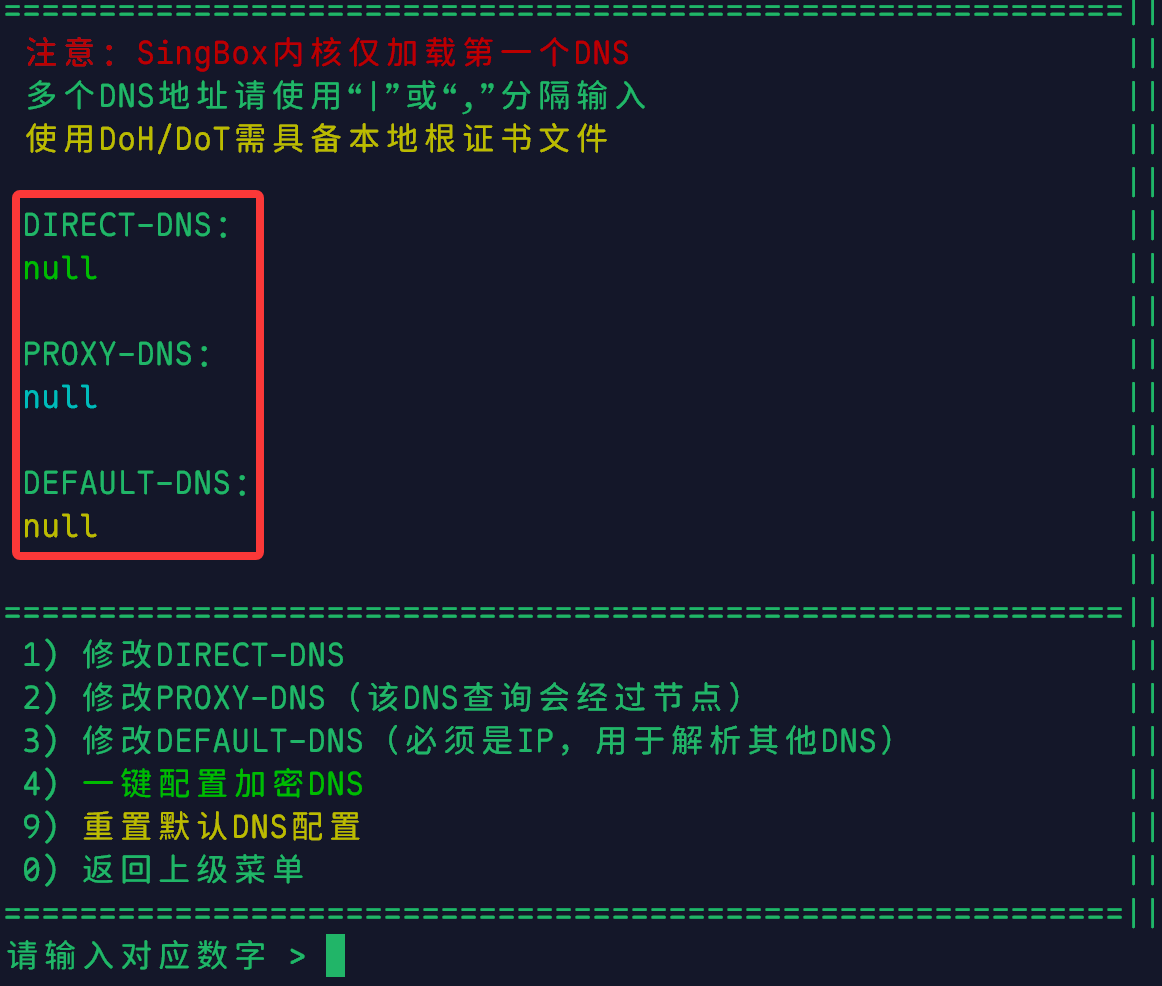
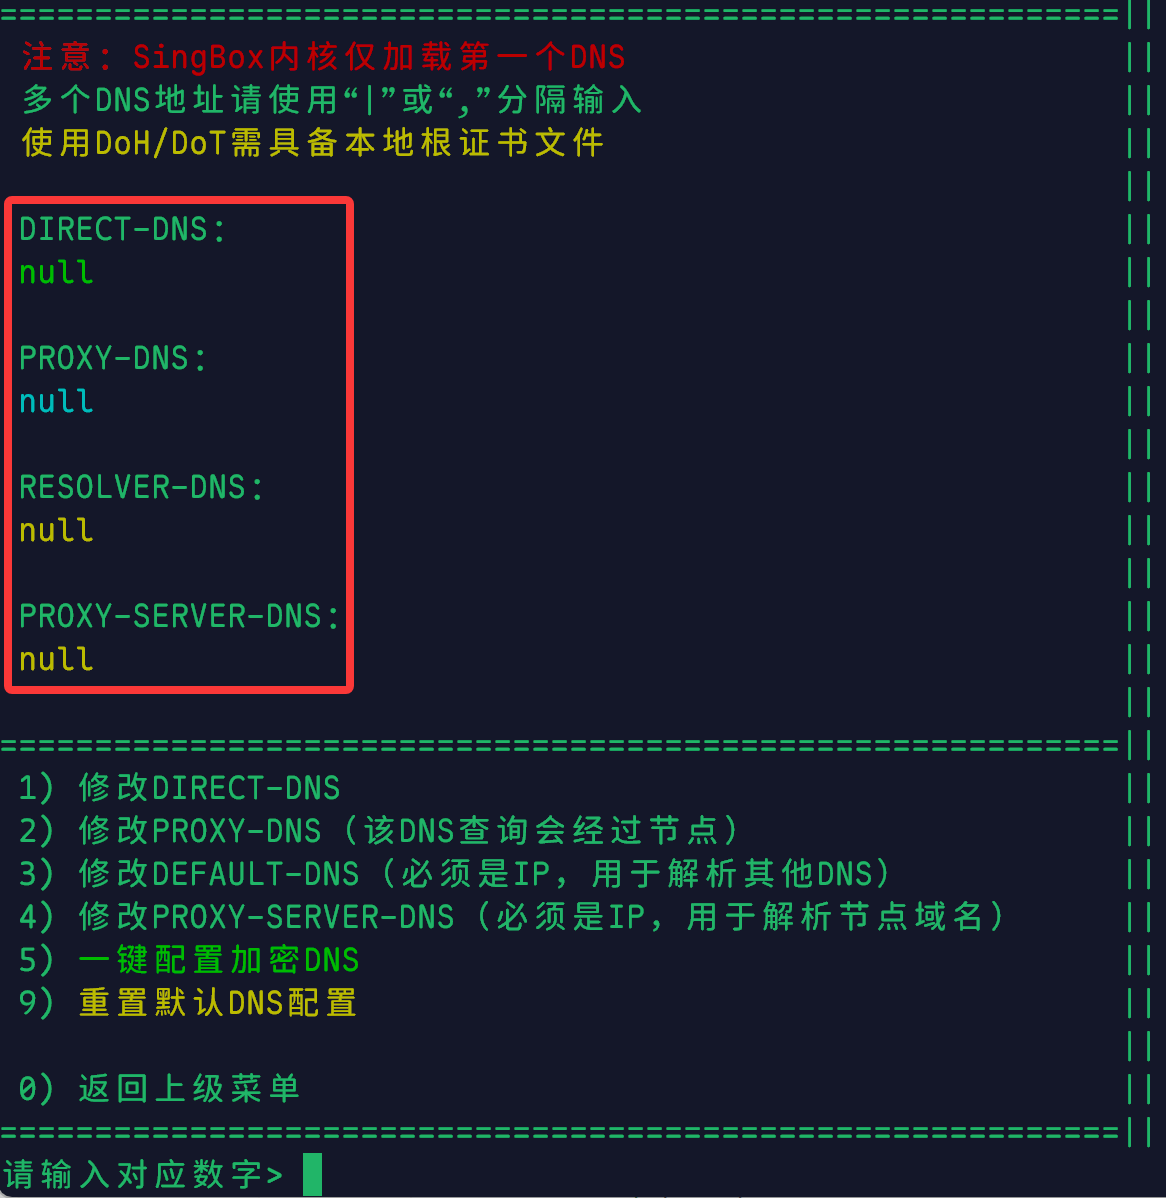
适配新版 ShellCrash 自定义定时任务；优化 mihomo 内核 DNS 配置；修改其它错误配置

Changed region(s): [[0.0, 0.0, 1.0, 1.0]]

diff --git a/_posts/2024-08-22-share-shellcrashadguardhome-singboxr-ruleset.md b/_posts/2024-08-22-share-shellcrashadguardhome-singboxr-ruleset.md
@@ -266,7 +266,7 @@ sc
   "dns": {
     "servers": [
       {
-        "tag": "dns_hosts",
+        "tag": "hosts",
         "type": "hosts",
         "predefined": {
           "miwifi.com": [ "192.168.31.1", "127.0.0.1" ],
@@ -277,10 +277,10 @@ sc
         }
       },
       { "tag": "dns_resolver", "type": "local" },
-      { "tag": "dns_alidns", "type": "quic", "server": "dns.alidns.com", "domain_resolver": "dns_hosts" },
-      { "tag": "dns_dnspod", "type": "https", "server": "doh.pub", "domain_resolver": "dns_hosts" },
-      { "tag": "dns_google", "type": "https", "server": "dns.google", "domain_resolver": "dns_hosts", "detour": "GLOBAL" },
-      { "tag": "dns_cloudflare", "type": "https", "server": "cloudflare-dns.com", "domain_resolver": "dns_hosts", "detour": "GLOBAL" },
+      { "tag": "dns_alidns", "type": "quic", "server": "dns.alidns.com", "domain_resolver": "hosts" },
+      { "tag": "dns_dnspod", "type": "https", "server": "doh.pub", "domain_resolver": "hosts" },
+      { "tag": "dns_google", "type": "https", "server": "dns.google", "domain_resolver": "hosts", "detour": "GLOBAL" },
+      { "tag": "dns_cloudflare", "type": "https", "server": "cloudflare-dns.com", "domain_resolver": "hosts", "detour": "GLOBAL" },
       { "tag": "dns_direct", "type": "group", "servers": [ "dns_alidns", "dns_dnspod" ] },
       { "tag": "dns_proxy", "type": "group", "servers": [ "dns_google", "dns_cloudflare" ] },
       { "tag": "dns_fakeip", "type": "fakeip", "inet4_range": "28.0.0.0/8", "inet6_range": "fc00::/16" }
@@ -318,7 +318,7 @@ sc
   "dns": {
     "servers": [
       {
-        "tag": "dns_hosts",
+        "tag": "hosts",
         "type": "hosts",
         "predefined": {
           "miwifi.com": [ "192.168.31.1", "127.0.0.1" ],
@@ -331,14 +331,13 @@ sc
       { "tag": "dns_resolver", "type": "local" },
       { "tag": "dns_alidns", "type": "quic", "server": "dns.alidns.com", "domain_resolver": "hosts" },
       { "tag": "dns_dnspod", "type": "https", "server": "doh.pub", "domain_resolver": "hosts" },
-      { "tag": "dns_google", "type": "https", "server": "dns.google", "domain_resolver": "dns_hosts", "detour": "GLOBAL" },
-      { "tag": "dns_quad9", "type": "https", "server": "dns11.quad9.net", "domain_resolver": "dns_hosts", "detour": "GLOBAL" },
+      { "tag": "dns_google", "type": "https", "server": "dns.google", "domain_resolver": "hosts", "detour": "GLOBAL" },
+      { "tag": "dns_quad9", "type": "https", "server": "dns11.quad9.net", "domain_resolver": "hosts", "detour": "GLOBAL" },
       { "tag": "dns_direct", "type": "group", "servers": [ "dns_alidns", "dns_dnspod" ] },
       { "tag": "dns_proxy", "type": "group", "servers": [ "dns_google", "dns_quad9" ] },
       { "tag": "dns_fakeip", "type": "fakeip", "inet4_range": "28.0.0.0/8", "inet6_range": "fc00::/16" }
     ],
     "rules": [
-      { "ip_accept_any": true, "server": "dns_hosts" },
       { "clash_mode": [ "Direct" ], "server": "dns_direct" },
       { "clash_mode": [ "Global" ], "server": "dns_proxy" },
       { "rule_set": [ "ads" ], "action": "predefined" },
@@ -408,20 +407,20 @@ sc
 4. 连接 SSH 后执行如下命令：
 ```shell
 sed -i ':a;N;$!ba;s/{[[:space:]]*"ip_accept_any": true,[[:space:]]*"server": "hosts"[[:space:]]*}/{ "action": "evaluate", "server": "hosts" },\
-      { "match_response": true, "ip_accept_any": true, "action": "respond" }/' "$CRASHDIR/starts/singbox_modify.sh"
+         { "match_response": true, "ip_accept_any": true, "action": "respond" }/' "$CRASHDIR/starts/singbox_modify.sh"
 sed -i '/#生成experimental.json/i\
   #生成http_clients.json\
   cat >"$TMPDIR"/jsons/http_clients.json <<EOF\
 {\
   "http_clients": [\
-    {\
-      "tag": "detour_proxy",\
-      "detour": "GLOBAL"\
-    },\
-    {\
-      "tag": "detour_direct",\
-      "detour": "DIRECT"\
-    }\
+       {\
+         "tag": "detour_proxy",\
+         "detour": "GLOBAL"\
+       },\
+       {\
+         "tag": "detour_direct",\
+         "detour": "DIRECT"\
+       }\
   ]\
 }\
 EOF

diff --git a/_posts/2024-08-22-share-shellcrash-singboxr-ruleset.md b/_posts/2024-08-22-share-shellcrash-singboxr-ruleset.md
@@ -312,7 +312,7 @@ sc
   "dns": {
     "servers": [
       {
-        "tag": "dns_hosts",
+        "tag": "hosts",
         "type": "hosts",
         "predefined": {
           "miwifi.com": [ "192.168.31.1", "127.0.0.1" ],
@@ -325,14 +325,13 @@ sc
       { "tag": "dns_resolver", "type": "local" },
       { "tag": "dns_alidns", "type": "quic", "server": "dns.alidns.com", "domain_resolver": "hosts" },
       { "tag": "dns_dnspod", "type": "https", "server": "doh.pub", "domain_resolver": "hosts" },
-      { "tag": "dns_google", "type": "https", "server": "dns.google", "domain_resolver": "dns_hosts", "detour": "GLOBAL" },
-      { "tag": "dns_quad9", "type": "https", "server": "dns11.quad9.net", "domain_resolver": "dns_hosts", "detour": "GLOBAL" },
+      { "tag": "dns_google", "type": "https", "server": "dns.google", "domain_resolver": "hosts", "detour": "GLOBAL" },
+      { "tag": "dns_quad9", "type": "https", "server": "dns11.quad9.net", "domain_resolver": "hosts", "detour": "GLOBAL" },
       { "tag": "dns_direct", "type": "group", "servers": [ "dns_alidns", "dns_dnspod" ] },
       { "tag": "dns_proxy", "type": "group", "servers": [ "dns_google", "dns_quad9" ] },
       { "tag": "dns_fakeip", "type": "fakeip", "inet4_range": "28.0.0.0/8", "inet6_range": "fc00::/16" }
     ],
     "rules": [
-      { "ip_accept_any": true, "server": "dns_hosts" },
       { "clash_mode": [ "Direct" ], "server": "dns_direct" },
       { "clash_mode": [ "Global" ], "server": "dns_proxy" },
       { "rule_set": [ "ads" ], "action": "predefined" },
@@ -397,20 +396,20 @@ sc
 3. 连接 SSH 后执行如下命令：
 ```shell
 sed -i ':a;N;$!ba;s/{[[:space:]]*"ip_accept_any": true,[[:space:]]*"server": "hosts"[[:space:]]*}/{ "action": "evaluate", "server": "hosts" },\
-      { "match_response": true, "ip_accept_any": true, "action": "respond" }/' "$CRASHDIR/starts/singbox_modify.sh"
+         { "match_response": true, "ip_accept_any": true, "action": "respond" }/' "$CRASHDIR/starts/singbox_modify.sh"
 sed -i '/#生成experimental.json/i\
   #生成http_clients.json\
   cat >"$TMPDIR"/jsons/http_clients.json <<EOF\
 {\
   "http_clients": [\
-    {\
-      "tag": "detour_proxy",\
-      "detour": "GLOBAL"\
-    },\
-    {\
-      "tag": "detour_direct",\
-      "detour": "DIRECT"\
-    }\
+       {\
+         "tag": "detour_proxy",\
+         "detour": "GLOBAL"\
+       },\
+       {\
+         "tag": "detour_direct",\
+         "detour": "DIRECT"\
+       }\
   ]\
 }\
 EOF

diff --git a/_posts/2024-08-21-share-android-singboxr-ruleset.md b/_posts/2024-08-21-share-android-singboxr-ruleset.md
@@ -290,7 +290,7 @@ tags: [sing-box, sing-boxr, Android, ruleset, rule_set, 分享]
   "dns": {
     "servers": [
       {
-        "tag": "dns_hosts",
+        "tag": "hosts",
         "type": "hosts",
         "predefined": {
           "miwifi.com": [ "192.168.31.1", "127.0.0.1" ],
@@ -302,14 +302,15 @@ tags: [sing-box, sing-boxr, Android, ruleset, rule_set, 分享]
       },
       { "tag": "dns_alidns", "type": "quic", "server": "dns.alidns.com", "domain_resolver": "hosts" },
       { "tag": "dns_dnspod", "type": "https", "server": "doh.pub", "domain_resolver": "hosts" },
-      { "tag": "dns_google", "type": "https", "server": "dns.google", "domain_resolver": "dns_hosts", "detour": "GLOBAL" },
-      { "tag": "dns_quad9", "type": "https", "server": "dns11.quad9.net", "domain_resolver": "dns_hosts", "detour": "GLOBAL" },
+      { "tag": "dns_google", "type": "https", "server": "dns.google", "domain_resolver": "hosts", "detour": "GLOBAL" },
+      { "tag": "dns_quad9", "type": "https", "server": "dns11.quad9.net", "domain_resolver": "hosts", "detour": "GLOBAL" },
       { "tag": "dns_direct", "type": "group", "servers": [ "dns_alidns", "dns_dnspod" ] },
       { "tag": "dns_proxy", "type": "group", "servers": [ "dns_google", "dns_quad9" ] },
       { "tag": "dns_fakeip", "type": "fakeip", "inet4_range": "28.0.0.0/8", "inet6_range": "fc00::/16" }
     ],
     "rules": [
-      { "ip_accept_any": true, "server": "dns_hosts" },
+      { "action": "evaluate", "server": "hosts" },
+      { "match_response": true, "ip_accept_any": true, "action": "respond" },
       { "clash_mode": [ "Direct" ], "server": "dns_direct" },
       { "clash_mode": [ "Global" ], "server": "dns_proxy" },
       { "rule_set": [ "ads" ], "action": "predefined" },

diff --git a/_posts/2024-08-22-share-windows-singboxr-ruleset.md b/_posts/2024-08-22-share-windows-singboxr-ruleset.md
@@ -289,7 +289,7 @@ tags: [sing-box, sing-boxr, Windows, ruleset, rule_set, 分享]
   "dns": {
     "servers": [
       {
-        "tag": "dns_hosts",
+        "tag": "hosts",
         "type": "hosts",
         "predefined": {
           "miwifi.com": [ "192.168.31.1", "127.0.0.1" ],
@@ -301,14 +301,15 @@ tags: [sing-box, sing-boxr, Windows, ruleset, rule_set, 分享]
       },
       { "tag": "dns_alidns", "type": "quic", "server": "dns.alidns.com", "domain_resolver": "hosts" },
       { "tag": "dns_dnspod", "type": "https", "server": "doh.pub", "domain_resolver": "hosts" },
-      { "tag": "dns_google", "type": "https", "server": "dns.google", "domain_resolver": "dns_hosts", "detour": "GLOBAL" },
-      { "tag": "dns_quad9", "type": "https", "server": "dns11.quad9.net", "domain_resolver": "dns_hosts", "detour": "GLOBAL" },
+      { "tag": "dns_google", "type": "https", "server": "dns.google", "domain_resolver": "hosts", "detour": "GLOBAL" },
+      { "tag": "dns_quad9", "type": "https", "server": "dns11.quad9.net", "domain_resolver": "hosts", "detour": "GLOBAL" },
       { "tag": "dns_direct", "type": "group", "servers": [ "dns_alidns", "dns_dnspod" ] },
       { "tag": "dns_proxy", "type": "group", "servers": [ "dns_google", "dns_quad9" ] },
       { "tag": "dns_fakeip", "type": "fakeip", "inet4_range": "28.0.0.0/8", "inet6_range": "fc00::/16" }
     ],
     "rules": [
-      { "ip_accept_any": true, "server": "dns_hosts" },
+      { "action": "evaluate", "server": "hosts" },
+      { "match_response": true, "ip_accept_any": true, "action": "respond" },
       { "clash_mode": [ "Direct" ], "server": "dns_direct" },
       { "clash_mode": [ "Global" ], "server": "dns_proxy" },
       { "rule_set": [ "ads" ], "action": "predefined" },

diff --git a/_posts/2024-08-21-share-shellcrashadguardhome-mihomo-ruleset.md b/_posts/2024-08-21-share-shellcrashadguardhome-mihomo-ruleset.md
@@ -354,13 +354,14 @@ dns:
   direct-nameserver:
     - quic://dns.alidns.com:853
     - https://doh.pub/dns-query
+  direct-nameserver-follow-policy: true
   nameserver-policy:
     'rule-set:ads': [rcode://success]
     'rule-set:fakeip-filter,trackerslist,microsoft-cn,apple-cn,google-cn,games-cn,private,cn': [quic://dns.alidns.com:853, https://doh.pub/dns-query]
 ```
 
 ## 四、 添加定时任务
-1. 连接 SSH 后执行命令 `vi $CRASHDIR/task/task.user`，按一下 Ins 键（Insert 键），粘贴如下内容：
+1. 连接 SSH 后执行命令 `vi $CRASHDIR/configs/task/task.user`，按一下 Ins 键（Insert 键），粘贴如下内容：
 ```shell
 201#curl -sS -o $CRASHDIR/cn_ip.txt -L https://ghfast.top/https://github.com/DustinWin/geoip/releases/download/ips/cn_ipv4.txt && curl -sS -o $CRASHDIR/cn_ipv6.txt -L https://ghfast.top/https://github.com/DustinWin/geoip/releases/download/ips/cn_ipv6.txt >/dev/null 2>&1#更新CN_IP文件
 202#curl -sS -o /data/AdGuardHome/AdGuardHome -L https://ghfast.top/https://github.com/DustinWin/proxy-tools/releases/download/AdGuardHome/AdGuardHome_beta_linux_arm64 >/dev/null 2>&1#更新AdGuardHome

diff --git a/_posts/2024-08-21-toolsettings-shellcrash-mihomo-ruleset.md b/_posts/2024-08-21-toolsettings-shellcrash-mihomo-ruleset.md
@@ -19,7 +19,7 @@ curl -sS -o /tmp/CrashCore.upx -L https://ghfast.top/https://github.com/DustinWi
 ```
 
 ## 二、 添加定时任务
-1. 连接 SSH 后执行命令 `vi $CRASHDIR/task/task.user`，按一下 Ins 键（Insert 键），粘贴（快捷键 Ctrl+Shift+V）如下内容：
+1. 连接 SSH 后执行命令 `vi $CRASHDIR/configs/task/task.user`，按一下 Ins 键（Insert 键），粘贴（快捷键 Ctrl+Shift+V）如下内容：
 - 注：须重启 ShellCrash 服务后生效
 ```shell
 201#curl -sS -o $CRASHDIR/cn_ip.txt -L https://ghfast.top/https://github.com/DustinWin/geoip/releases/download/ips/cn_ipv4.txt && curl -sS -o $CRASHDIR/cn_ipv6.txt -L https://ghfast.top/https://github.com/DustinWin/geoip/releases/download/ips/cn_ipv6.txt >/dev/null 2>&1#更新CN_IP文件

diff --git a/_posts/2024-08-22-toolsettings-shellcrash-singboxr-ruleset.md b/_posts/2024-08-22-toolsettings-shellcrash-singboxr-ruleset.md
@@ -19,7 +19,7 @@ curl -sS -o /tmp/CrashCore.upx -L https://ghfast.top/https://github.com/DustinWi
 ```
 
 ## 二、 添加定时任务
-1. 连接 SSH 后执行命令 `vi $CRASHDIR/task/task.user`，按一下 Ins 键（Insert 键），粘贴（快捷键 Ctrl+Shift+V）如下内容：
+1. 连接 SSH 后执行命令 `vi $CRASHDIR/configs/task/task.user`，按一下 Ins 键（Insert 键），粘贴（快捷键 Ctrl+Shift+V）如下内容：
 - 注：须重启 ShellCrash 服务后生效
 ```shell
 201#curl -sS -o $CRASHDIR/cn_ip.txt -L https://ghfast.top/https://github.com/DustinWin/geoip/releases/download/ips/cn_ipv4.txt && curl -sS -o $CRASHDIR/cn_ipv6.txt -L https://ghfast.top/https://github.com/DustinWin/geoip/releases/download/ips/cn_ipv6.txt >/dev/null 2>&1#更新CN_IP文件

diff --git a/_posts/2024-08-21-toolsettings-shellcrash-mihomo-geodata.md b/_posts/2024-08-21-toolsettings-shellcrash-mihomo-geodata.md
@@ -27,7 +27,7 @@ curl -sS -o $CRASHDIR/Country.mmdb -L https://cdn.jsdelivr.net/gh/DustinWin/rule
 ```
 
 ## 三、 添加定时任务
-1. 连接 SSH 后执行命令 `vi $CRASHDIR/task/task.user`，按一下 Ins 键（Insert 键），粘贴如下内容：
+1. 连接 SSH 后执行命令 `vi $CRASHDIR/configs/task/task.user`，按一下 Ins 键（Insert 键），粘贴如下内容：
 - 注：须重启 ShellCrash 服务后生效
 ```shell
 201#curl -sS -o $CRASHDIR/GeoSite.dat -L https://cdn.jsdelivr.net/gh/DustinWin/ruleset_geodata@mihomo-geodata/geosite.dat && curl -sS -o $CRASHDIR/Country.mmdb -L https://cdn.jsdelivr.net/gh/DustinWin/ruleset_geodata@mihomo-geodata/Country-lite.mmdb >/dev/null 2>&1#更新geodata路由规则文件

diff --git a/_posts/2024-08-21-pin-toolsinstall.md b/_posts/2024-08-21-pin-toolsinstall.md
@@ -132,7 +132,7 @@ curl -sS -o /data/AdGuardHome/AdGuardHome -L https://ghfast.top/https://github.c
 
 ## 五、 扩展（以 ShellCrash 配置定时任务为例）
 可在 ShellCrash 里添加定时更新 mihomo 内核、sing-box 内核、[zashboard 面板](https://github.com/Zephyruso/zashboard)和 AdGuard Home 的任务
-1. 连接 SSH 后执行 `vi $CRASHDIR/task/task.user`，按一下 Ins 键（Insert 键），粘贴如下内容：  
+1. 连接 SSH 后执行 `vi $CRASHDIR/configs/task/task.user`，按一下 Ins 键（Insert 键），粘贴如下内容：  
 注：
 - ① 留意链接后缀是否与 CPU 架构匹配
 - ② 须重启 ShellCrash 和 AdGuard Home 服务后生效

diff --git a/_posts/2024-08-21-dnsnoleaks-mihomo-ruleset.md b/_posts/2024-08-21-dnsnoleaks-mihomo-ruleset.md
@@ -84,6 +84,7 @@ dns:
   direct-nameserver:
     - quic://dns.alidns.com:853
     - https://dns.pub/dns-query
+  direct-nameserver-follow-policy: true
   nameserver-policy:
     'rule-set:fakeip-filter,cn':
       - quic://dns.alidns.com:853
@@ -156,6 +157,7 @@ dns:
   direct-nameserver:
     - quic://dns.alidns.com:853
     - https://dns.pub/dns-query
+  direct-nameserver-follow-policy: true
   nameserver-policy:
     'rule-set:cn':
       - quic://dns.alidns.com:853

diff --git a/_posts/2024-08-21-dnsnoleaks-mihomo-geodata.md b/_posts/2024-08-21-dnsnoleaks-mihomo-geodata.md
@@ -57,6 +57,7 @@ dns:
   direct-nameserver:
     - quic://dns.alidns.com:853
     - https://dns.pub/dns-query
+  direct-nameserver-follow-policy: true
   nameserver-policy:
     'geosite:fakeip-filter,cn':
       - quic://dns.alidns.com:853
@@ -127,6 +128,7 @@ dns:
   direct-nameserver:
     - quic://dns.alidns.com:853
     - https://dns.pub/dns-query
+  direct-nameserver-follow-policy: true
   nameserver-policy:
     'geosite:cn':
       - quic://dns.alidns.com:853

diff --git a/_posts/2024-08-21-share-android-mihomo-ruleset.md b/_posts/2024-08-21-share-android-mihomo-ruleset.md
@@ -330,6 +330,7 @@ dns:
   direct-nameserver:
     - quic://dns.alidns.com:853
     - https://doh.pub/dns-query
+  direct-nameserver-follow-policy: true
   nameserver-policy:
     'rule-set:ads': [rcode://success]
     'rule-set:trackerslist,microsoft-cn,apple-cn,google-cn,games-cn,private,cn': [quic://dns.alidns.com:853, https://doh.pub/dns-query]
